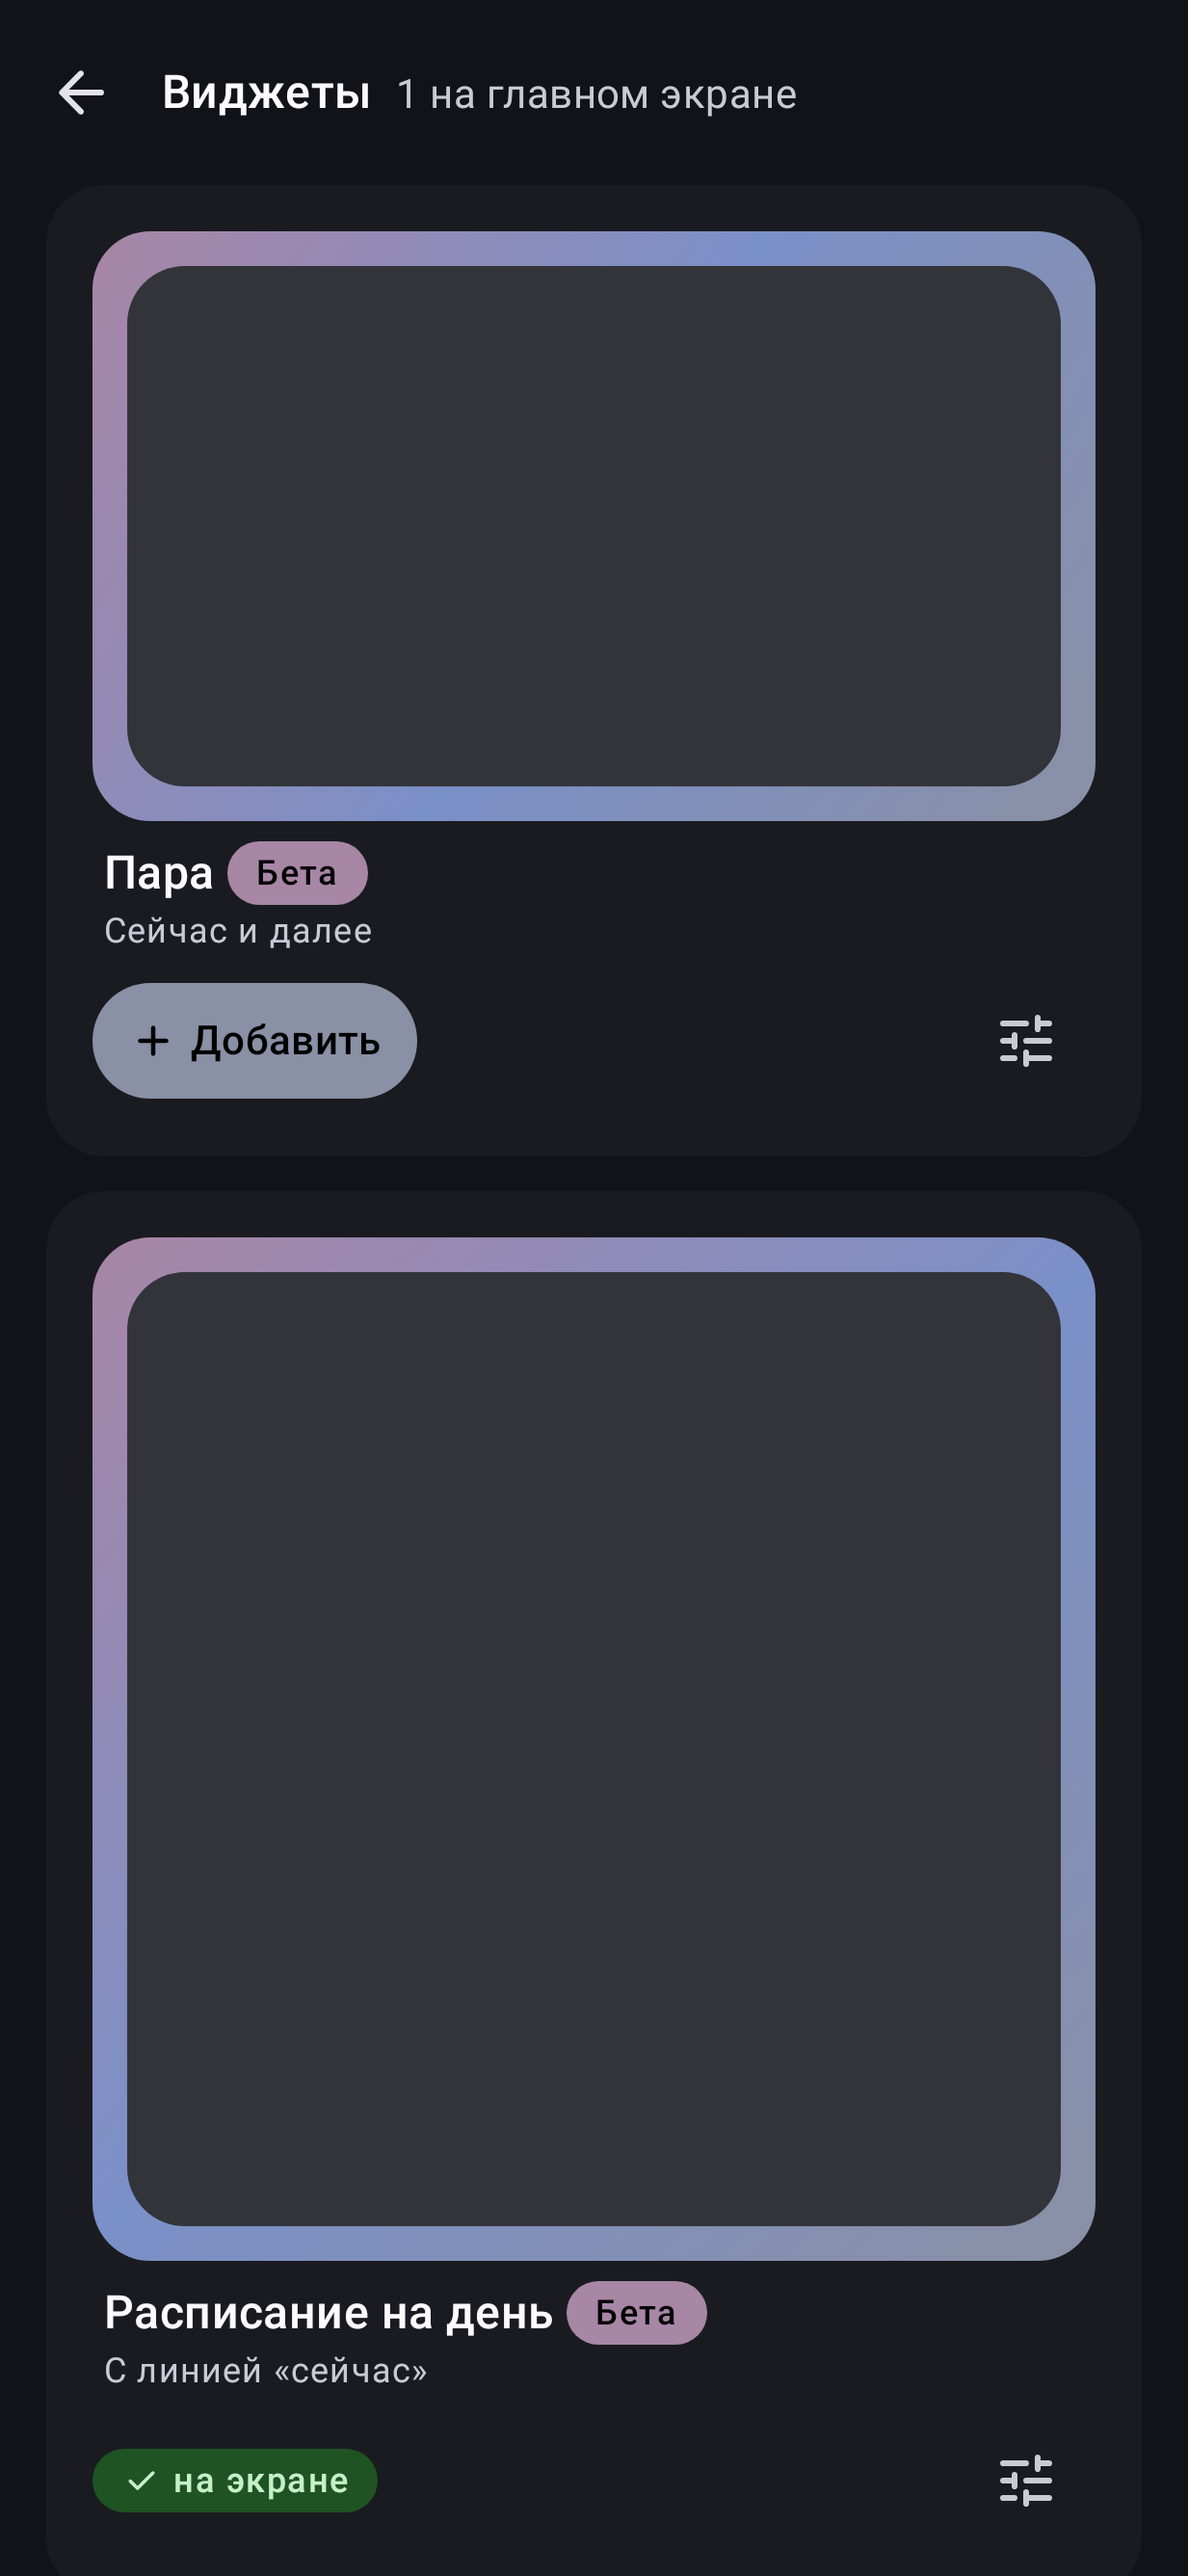
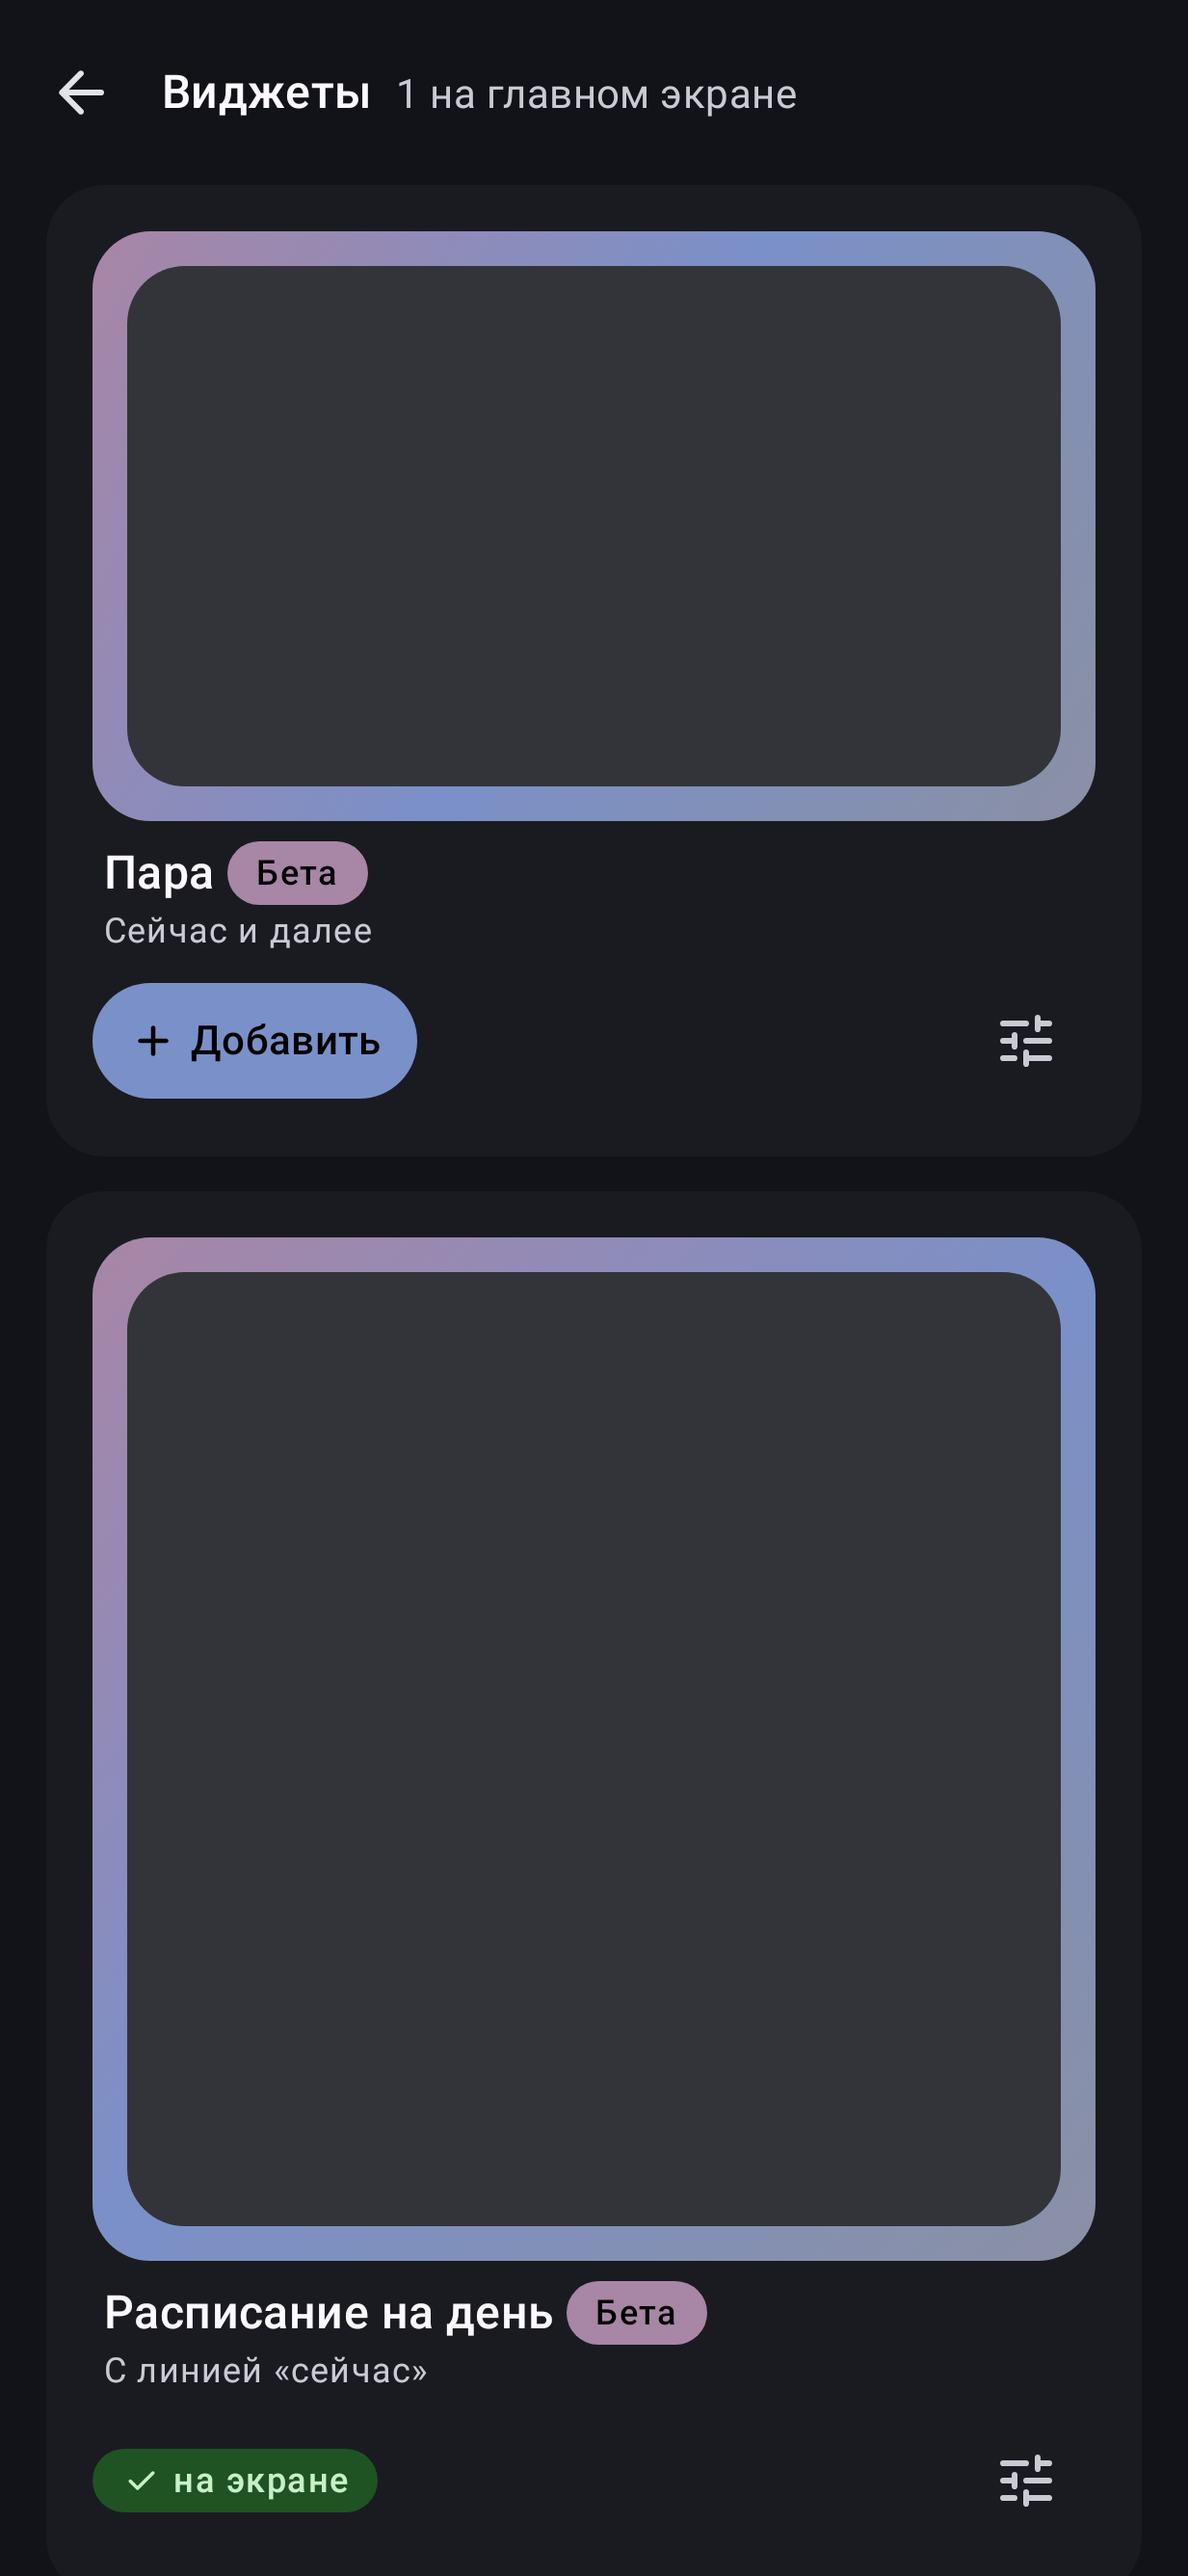
Widgets gallery: Добавить as the kit's TonalButton

Changed region(s): [[0.0616, 0.3726, 0.3698, 0.4347]]

diff --git a/shared/feature-settings/src/androidMain/kotlin/dev/alllexey/itmowidgets/feature/settings/ui/widgets/WidgetsGalleryScreen.kt b/shared/feature-settings/src/androidMain/kotlin/dev/alllexey/itmowidgets/feature/settings/ui/widgets/WidgetsGalleryScreen.kt
@@ -21,7 +21,6 @@ import androidx.compose.foundation.layout.windowInsetsPadding
 import androidx.compose.foundation.rememberScrollState
 import androidx.compose.foundation.verticalScroll
 import androidx.compose.material3.ExperimentalMaterial3Api
-import androidx.compose.material3.FilledTonalButton
 import androidx.compose.material3.Icon
 import androidx.compose.material3.IconButton
 import androidx.compose.material3.ModalBottomSheet
@@ -44,6 +43,7 @@ import dev.alllexey.itmowidgets.core.settings.WidgetFormat
 import dev.alllexey.itmowidgets.core.settings.WidgetPreviewSettings
 import dev.alllexey.itmowidgets.core.text.UiText
 import dev.alllexey.itmowidgets.core.text.asString
+import dev.alllexey.itmowidgets.designsystem.components.buttons.TonalButton
 import dev.alllexey.itmowidgets.designsystem.components.sheets.SheetClose
 import dev.alllexey.itmowidgets.designsystem.components.sheets.SheetScaffold
 import dev.alllexey.itmowidgets.designsystem.kit.ItmoCard
@@ -171,7 +171,7 @@ private fun CardAction(card: WidgetCard, actions: WidgetsGalleryActions) {
             tone = Tone.Success,
             icon = painterResource(Res.drawable.ic_check),
         )
-        WidgetCardAction.ADD -> FilledTonalButton(
+        WidgetCardAction.ADD -> TonalButton(
             onClick = { actions.onAdd(card.format) },
             contentPadding = PaddingValues(horizontal = ItmoTheme.spacing.content),
             modifier = Modifier.testTag(WidgetsGalleryTags.add(card.format)),

diff --git a/CHANGELOG.md b/CHANGELOG.md
@@ -208,6 +208,7 @@ on Android and native SwiftUI screens in a new iOS app. Android keeps the featur
 - The prediction of a lesson you are booked on offers auto-sign again instead of showing as booked.
 - A setting changed while a screen starts watching it is no longer lost until restart.
 - Android sheets follow the finger and never go under the status bar or a cutout.
+- Android `Виджеты`: `Добавить` takes the kit's tonal colours instead of Material's grey, which read as disabled.
 - iOS shows pull-to-refresh on every tab root until the refresh ends.
 - iOS widgets of an `.ipa` re-signed by SideStore (or another tool that renames the App Group without
   `ALTAppGroups`) show data instead of the signed-out state: the app and the widgets find the group in their
